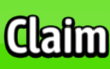
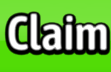
Removed unnecessary images

diff --git a/constants.py b/constants.py
@@ -163,22 +163,15 @@ APP_NO = get_path(f'{_BASE_APP_CLOSE}no')
 ## End section close buttons
 
 
-
 # Start App start
-APP_START_CLAIM_BTN = get_path(_BASE_APP_START + 'claim_yellow')
-APP_START_DIVINE_CLOSE = get_path(f'{_BASE_APP_START}close_divine')
-APP_START_RED_CLOSE = get_path(_BASE_APP_START + 'red_close')
-APP_START_BIG_CLOSE = get_path(_BASE_APP_START + 'big_close')
-APP_START_NO = get_path(_BASE_APP_START + 'no')
-APP_START_BUY_NOW = get_path(f'{_BASE_APP_START}buy_now')
-APP_START_BUY_NOW_2 = get_path(f'{_BASE_APP_START}buy_now2')
 APP_START_ENJOY = get_path(f'{_BASE_APP_START}enjoy')
-
-
+APP_START_ARENA_CLAIM = get_path(_BASE_APP_START + 'arena_claim')
 APP_START_EXTRA_CLAIM = get_path(_BASE_APP_START + 'extra_claim')
 APP_START_ENJOY_CLAIM = get_path(_BASE_APP_START + 'enjoy_claim')
 
 # End App start
+
+
 
 BREED_FEED_BTN = get_path(_BASE_BREED + 'feed') 
 BREED_SELL_BTN = get_path(_BASE_BREED + 'sell') 

diff --git a/open.py b/open.py
@@ -51,6 +51,7 @@ def check_extra_bonus():
     btns = [
         [C.APP_START_EXTRA_CLAIM, *mon_quarters['2ndHorHalf']],
         [C.APP_START_ENJOY_CLAIM, *mon_quarters['2ndHorHalf']],
+        [C.APP_START_ARENA_CLAIM, *mon_quarters['2ndHorHalf']],
     ]
 
     with concurrent.futures.ThreadPoolExecutor() as executor:
